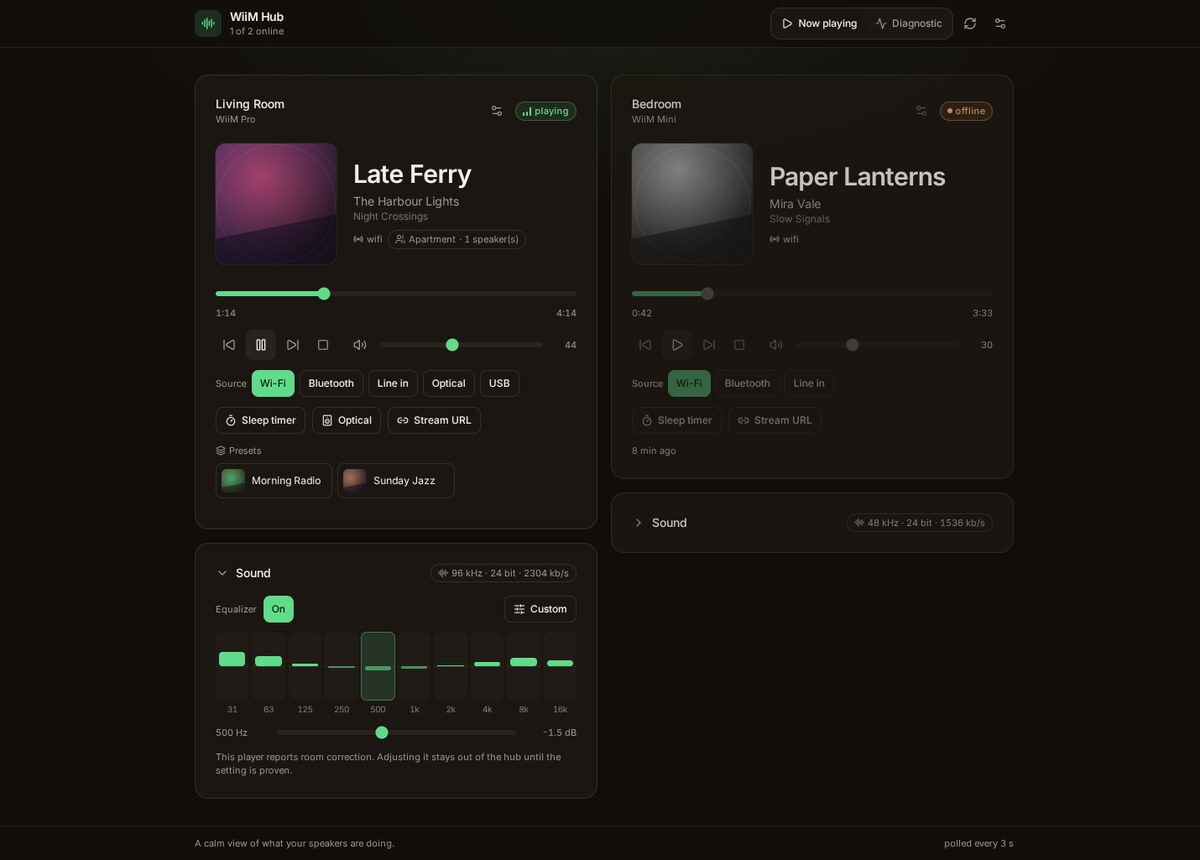
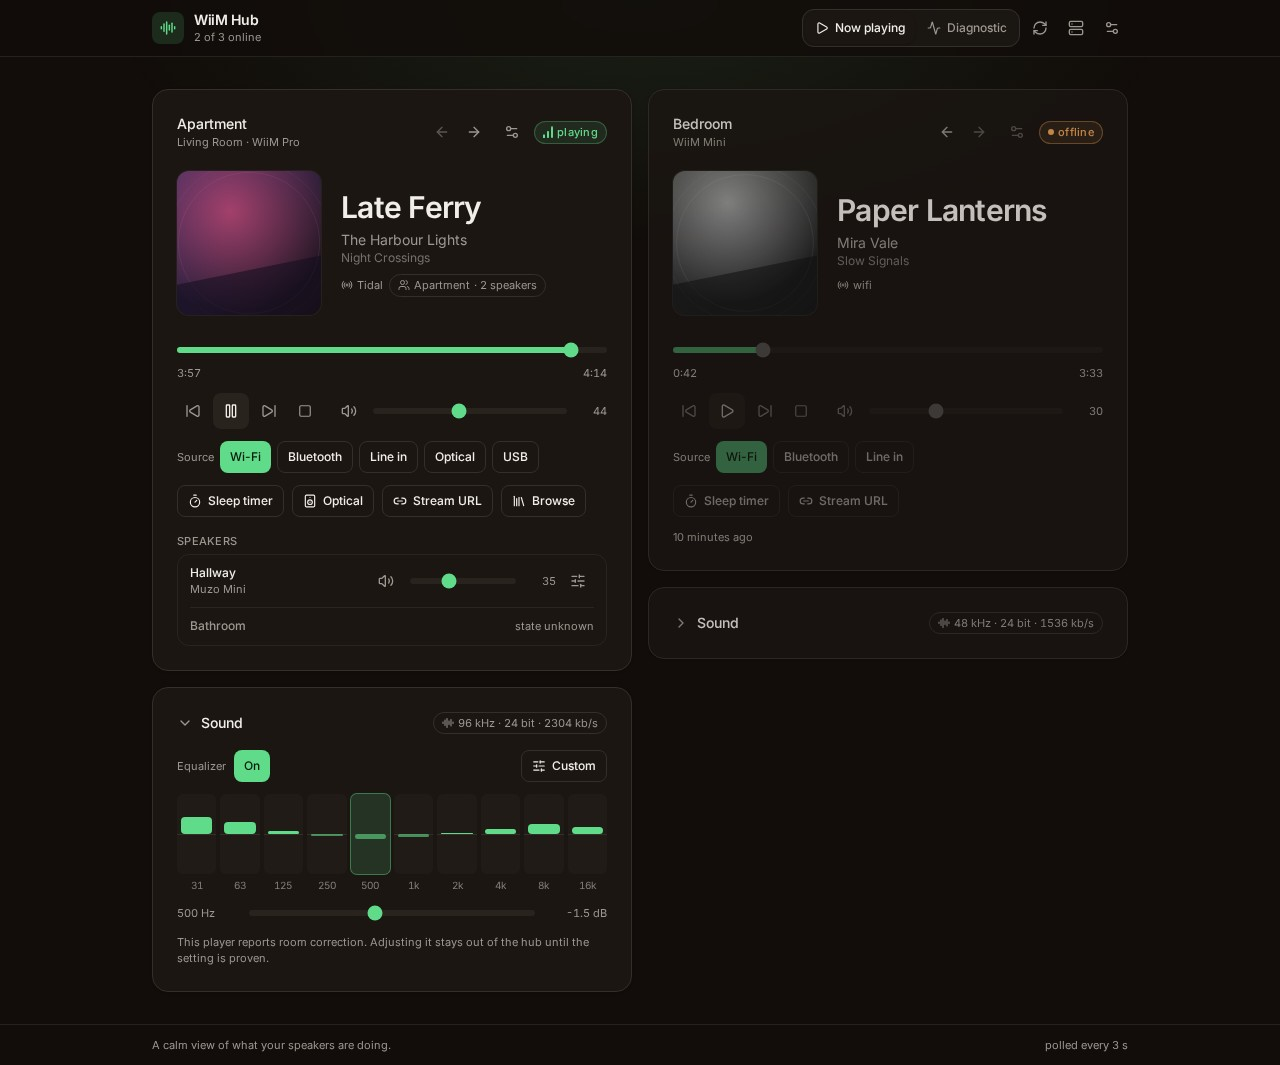
docs: refresh the screenshots for the group card
The four captures came from the demo, which now runs a group: one card named
after the group with its speakers as rows, an offline speaker beside it, the
equalizer of the speaker that drives the group, and the diagnostic view with
its findings. A running group is one card on a phone too, so the mobile shot
shows that shape rather than a single speaker.

diff --git a/README.md b/README.md
@@ -20,15 +20,16 @@ the normal case.
 [Configuration](https://openhoat.github.io/wiim-hub/guide/configuration) ·
 [How it works](https://openhoat.github.io/wiim-hub/how-it-works)
 
-![Now playing, one speaker online and one offline](docs/img/now-playing.jpeg)
+![Now playing: a running group as one card, and an offline speaker beside it](docs/img/now-playing.jpeg)
 
 ## Two views, one dataset
 
 A **now playing** view for everyday use: art, track, progress, volume, presets, sleep timer, audio
-route, and a stream URL the speaker fetches itself. A **diagnostic** view for support: raw fields,
-signal history, event log, and findings that quote the number they come from. A card folds to its
-header in the diagnostic view, and the arrows in a now playing header set an order the page keeps
-per browser, so the speaker you care about stays first.
+route, and a stream URL the speaker fetches itself. A running group is one card, with its speakers
+as rows, each carrying its own volume. A **diagnostic** view for support: raw fields, signal
+history, event log, and findings that quote the number they come from. A card folds to its header
+in the diagnostic view, and the arrows in a now playing header set an order the page keeps per
+browser, so the speaker you care about stays first.
 
 |                                    |                                               |
 | ---------------------------------- | --------------------------------------------- |

diff --git a/docs/index.md b/docs/index.md
@@ -54,11 +54,12 @@ behaviour was measured on a real player it is recorded in the
 
 Two readings of the same data: the sound card, with a per-source equalizer, and the diagnostic
 view, which turns the device's own counters into short facts. Both fit a phone, where the cards
-stack one per screen and nothing needs a zoom.
+stack one per screen and nothing needs a zoom. A running group is one card there too, with its
+speakers as rows.
 
-|                                                                           |                                            |
-| ------------------------------------------------------------------------- | ------------------------------------------ |
-| ![Sound card](img/sound.jpeg)<br>![Diagnostic view](img/diagnostics.jpeg) | ![Now playing on a phone](img/mobile.jpeg) |
+|                                                                           |                                        |
+| ------------------------------------------------------------------------- | -------------------------------------- |
+| ![Sound card](img/sound.jpeg)<br>![Diagnostic view](img/diagnostics.jpeg) | ![A group on a phone](img/mobile.jpeg) |
 
 ## Where to go next
 
